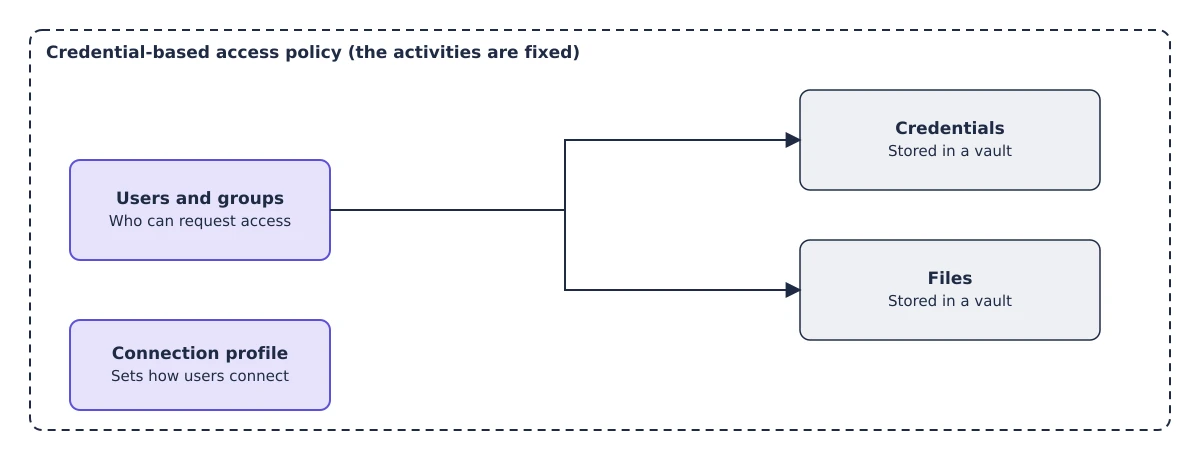
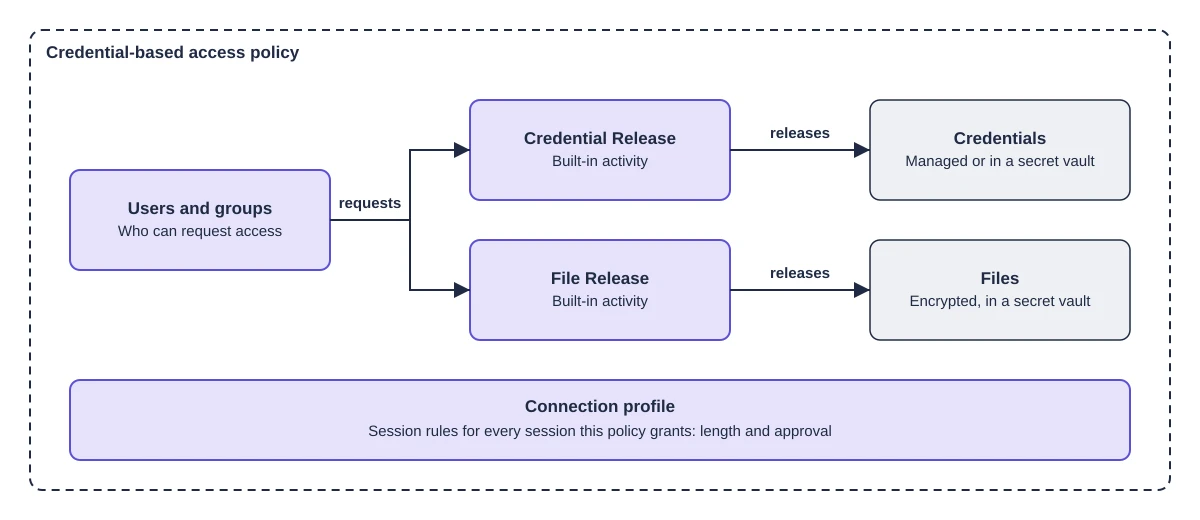
docs(privilegesecure 26.07): redraw the access policy diagrams on Key concepts
- Label each arrow with its meaning (requests, runs on, releases)
- Show the connection profile as a band that spans the policy, not an orphan box
- Show the built-in Credential Release and File Release activities in the credential-based diagram
- Align both diagrams on the same three-column layout
- Update the alt text to describe the arrows

Generated with AI

Claude-Session: https://claude.ai/code/session_01D98ga2ymVWQpDP6SRfNxhm

diff --git a/docs/privilegesecure/26.07/getting-started/key-concepts.md b/docs/privilegesecure/26.07/getting-started/key-concepts.md
@@ -17,9 +17,9 @@ An access policy connects users to resources and runs activities to make that co
 | Resource-based | Access to remote systems such as servers, databases, and websites. | Users and groups, activities, resources, and a connection profile. |
 | Credential-based | Access to credentials and files stored in a vault. | Users and groups, credentials, or files, and a connection profile. The activities are fixed. |
 
-![A resource-based access policy contains users and groups, activities, resources, and a connection profile. Users and groups are linked through activities to the resources they reach.](/images/privilegesecure/26.07/getting-started/resource-based-access-policy.webp)
+![A resource-based access policy contains users and groups, activities, and resources. Arrows show that users request an activity and the activity runs on a resource. A connection profile spans the policy and sets the session rules for every session it grants.](/images/privilegesecure/26.07/getting-started/resource-based-access-policy.webp)
 
-![A credential-based access policy contains users and groups, credentials, files stored in a vault, and a connection profile. The activities in this policy type are fixed.](/images/privilegesecure/26.07/getting-started/credential-based-access-policy.webp)
+![A credential-based access policy contains users and groups, the built-in Credential Release and File Release activities, credentials, and files. Arrows show that users request an activity, which releases a credential or a file. A connection profile sets the session rules.](/images/privilegesecure/26.07/getting-started/credential-based-access-policy.webp)
 
 A user must belong to an access policy to create a session. When a request names a policy, Privilege Secure uses that policy. Otherwise, it uses the first matching policy in alphabetical order by name.
 
